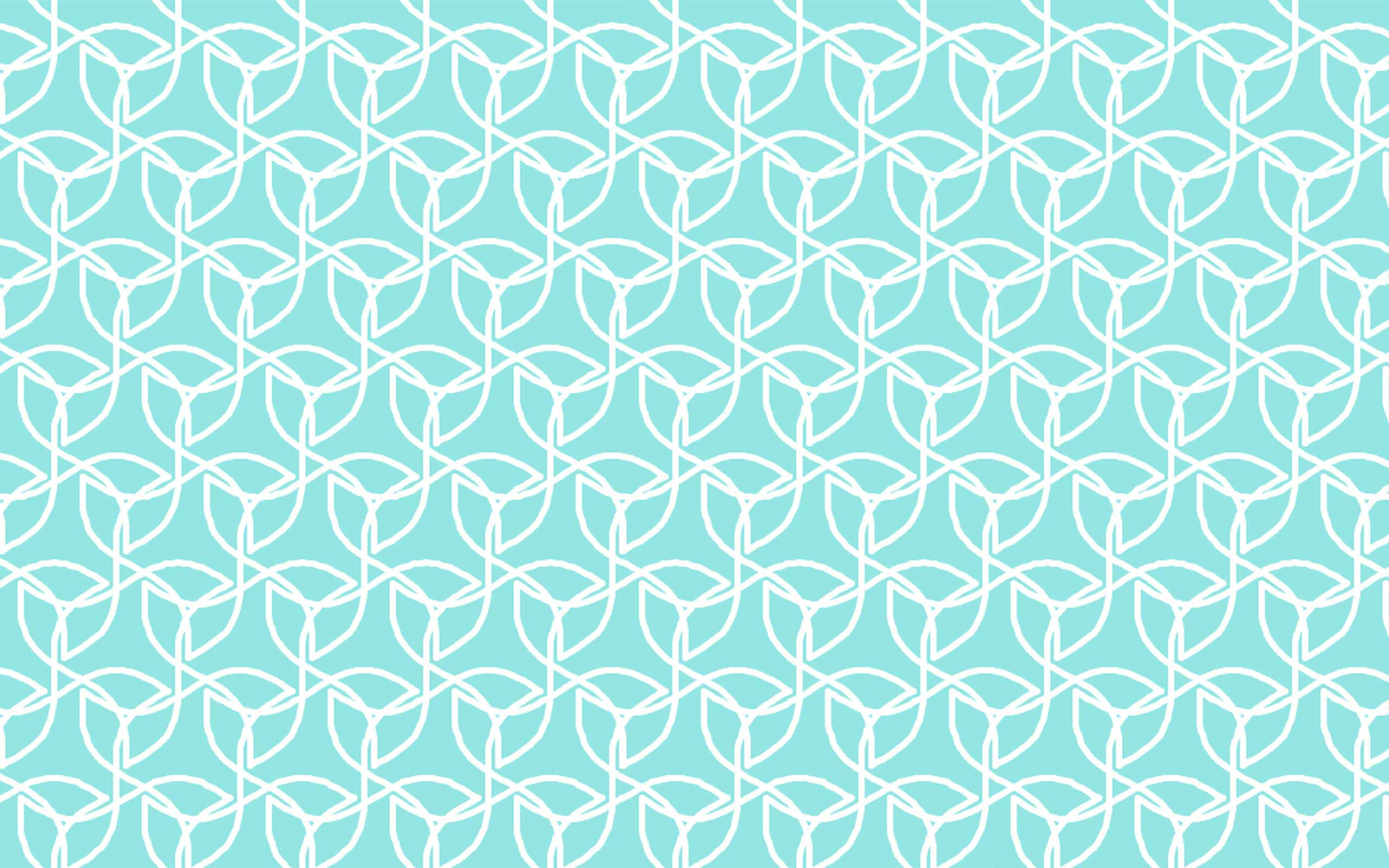
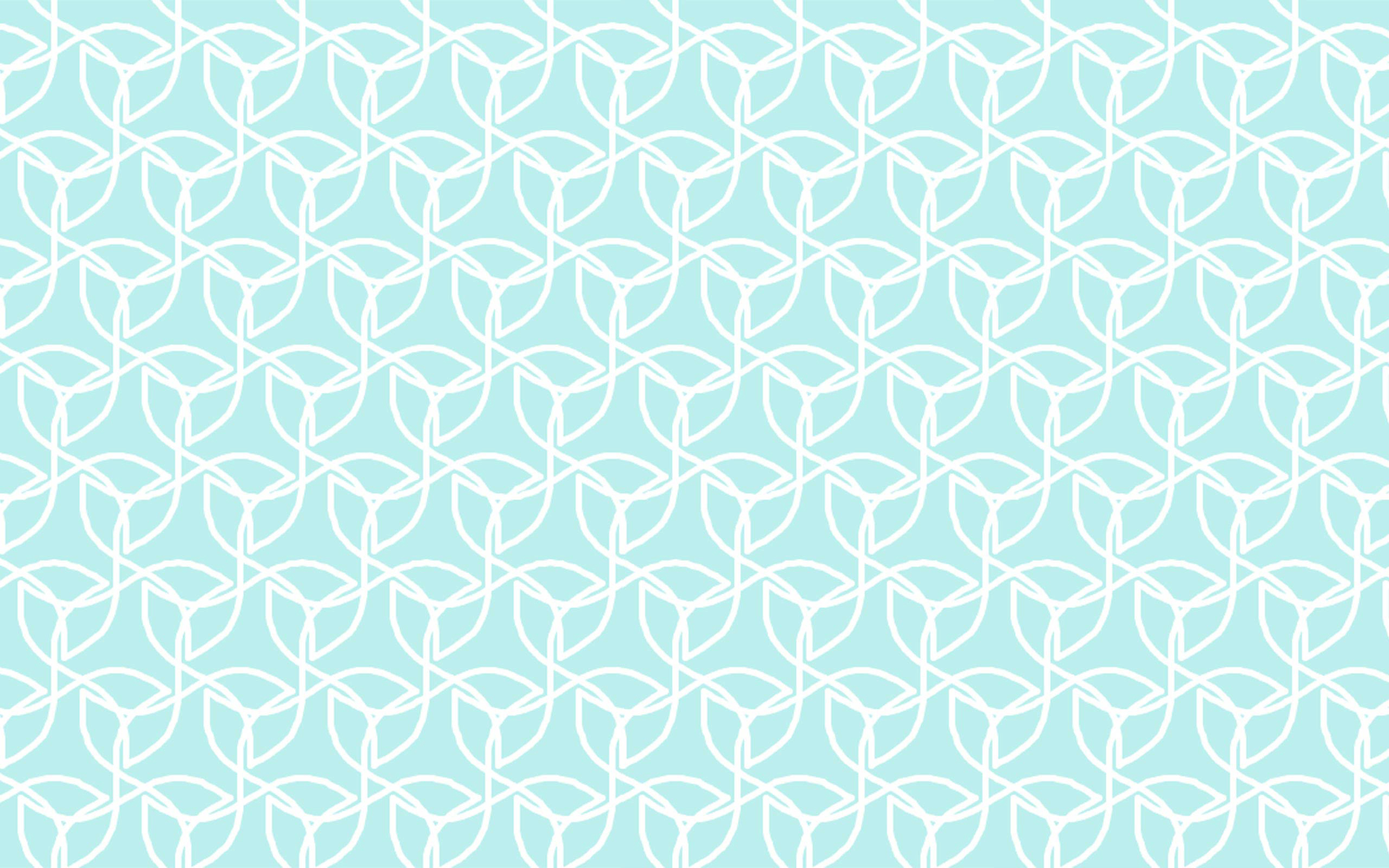
Updates

diff --git a/index.html b/index.html
@@ -4,7 +4,7 @@
         <meta charset="utf-8">
         <title>De la arquitectura a la programación.</title>
         <link rel="stylesheet" href="./css/reveal.css">
-        <link rel="stylesheet" href="./css/theme/sky.css" id="theme">
+        <link rel="stylesheet" href="./css/theme/beige.css" id="theme">
         <link rel="stylesheet" href="./css/highlight/zenburn.css">
         <link rel="stylesheet" href="./css/print/paper.css" type="text/css" media="print">
 
